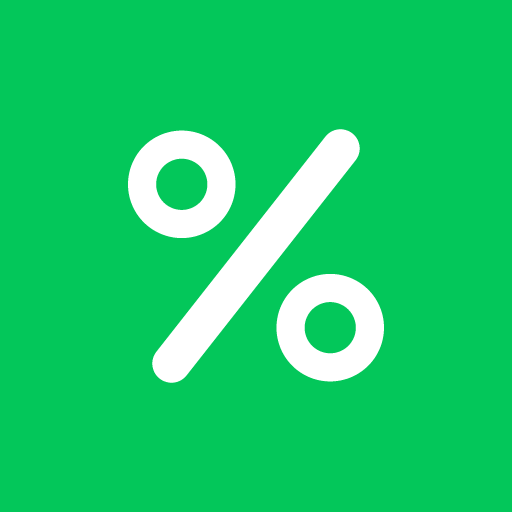
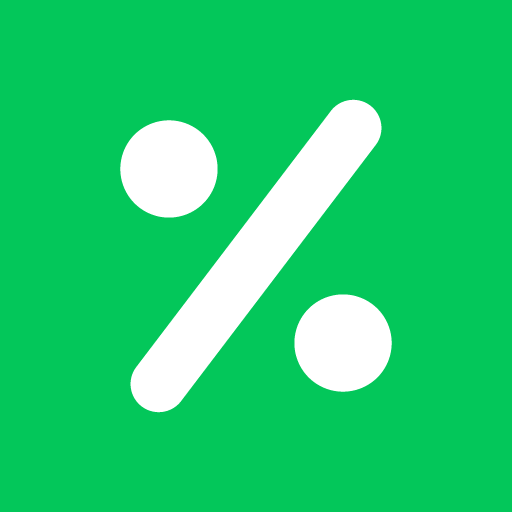
앱 아이콘: 굵은 % 기호의 초록 플랫 아이콘으로 변경

Changed region(s): [[0.25, 0.375, 0.7812, 0.8125], [0.2188, 0.1875, 0.75, 0.625]]

diff --git a/index.html b/index.html
@@ -4,7 +4,7 @@
 <meta charset="utf-8">
 <meta name="viewport" content="width=device-width,initial-scale=1,viewport-fit=cover">
 <link rel="manifest" href="manifest.webmanifest"><!-- pwa -->
-<link rel="apple-touch-icon" href="apple-touch-icon.png"><!-- pwa -->
+<link rel="apple-touch-icon" href="apple-touch-icon.png?v=2"><!-- pwa -->
 <meta name="theme-color" content="#03c75a"><!-- pwa -->
 <meta name="mobile-web-app-capable" content="yes"><!-- pwa -->
 <meta name="apple-mobile-web-app-capable" content="yes"><!-- pwa -->

diff --git a/sw.js b/sw.js
@@ -1,5 +1,5 @@
 // 오프라인 실행용 캐시. index.html 등을 수정하면 VERSION 값을 올려주세요.
-const VERSION = 'dsr-v8';
+const VERSION = 'dsr-v9';
 const FILES = ['./', './index.html', './manifest.webmanifest', './icon-192.png', './icon-512.png', './apple-touch-icon.png'];
 
 self.addEventListener('install', e => {
